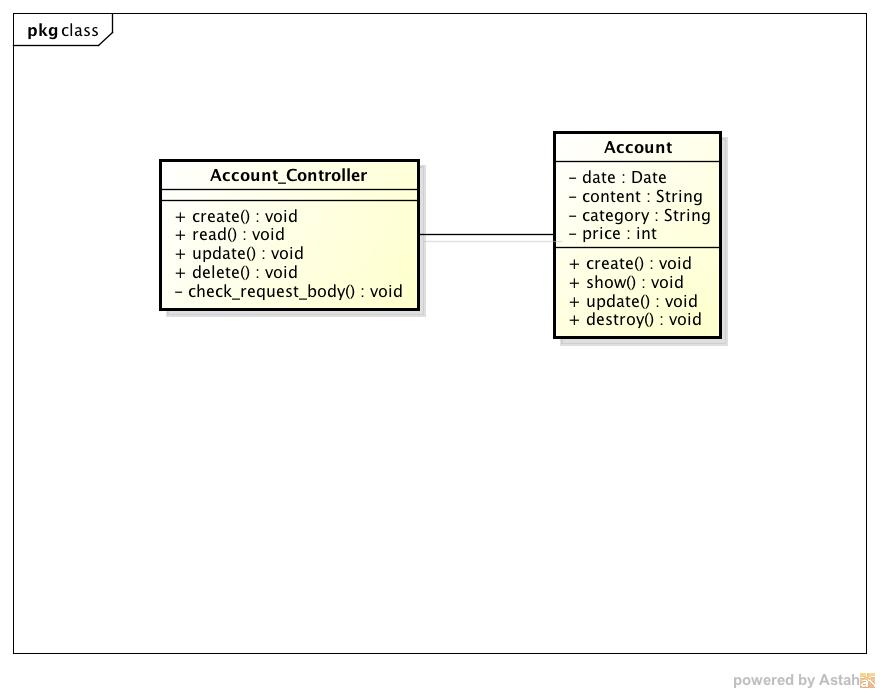
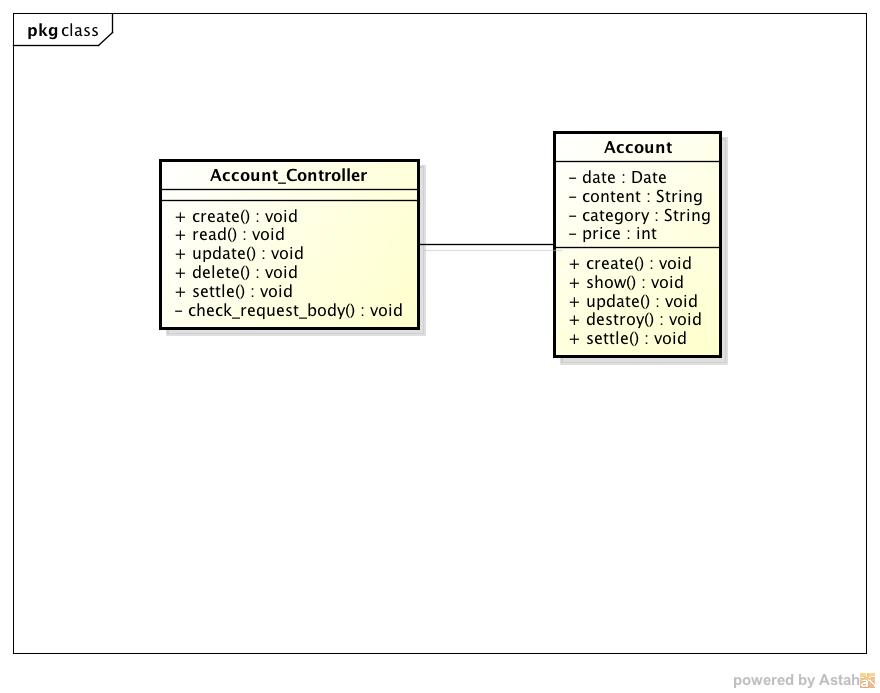
add settlement to manager

Changed region(s): [[0.1841, 0.3939, 0.4909, 0.4848], [0.6136, 0.4848, 0.8284, 0.5455], [0.4602, 0.3333, 0.6443, 0.3636]]

diff --git a/adhafera/sphinx/manager/external.rst b/adhafera/sphinx/manager/external.rst
@@ -14,7 +14,7 @@
 
 .. image:: images/seq_create_ext.jpg
 
-1. ユーザがViewer, Registerで家計簿を登録すると，Managerにリクエストが送信される
+1. 利用者がViewer, Registerで家計簿を登録すると，Managerにリクエストが送信される
 2. リクエストを受信すると，Managerは入力のチェックを行う
 3. チェックした結果に基づいて，以下の処理を実行する
 
@@ -33,7 +33,7 @@
 
 .. image:: images/seq_read_ext.jpg
 
-1. ユーザがViewerで家計簿を検索すると，Managerにリクエストが送信される
+1. 利用者がViewerで家計簿を検索すると，Managerにリクエストが送信される
 2. リクエストを受信すると，Managerは入力のチェックを行う
 3. チェックした結果に基づいて，以下の処理を実行する
 
@@ -52,7 +52,7 @@
 
 .. image:: images/seq_update_ext.jpg
 
-1. ユーザがViewerで家計簿を更新すると，Managerにリクエストが送信される
+1. 利用者がViewerで家計簿を更新すると，Managerにリクエストが送信される
 2. リクエストを受信すると，Managerは入力のチェックを行う
 3. チェックした結果に基づいて，以下の処理を実行する
 
@@ -71,7 +71,7 @@
 
 .. image:: images/seq_delete_ext.jpg
 
-1. ユーザがViewerで家計簿を削除すると，Managerにリクエストが送信される
+1. 利用者がViewerで家計簿を削除すると，Managerにリクエストが送信される
 2. リクエストを受信すると，Managerは入力のチェックを行う
 3. チェックした結果に基づいて，以下の処理を実行する
 
@@ -80,6 +80,25 @@
      3-1. データベースの指定された条件を満たすレコードを削除する
 
      3-2. 削除通知をViewerに送信する
+
+   - 不正な入力である場合
+
+     3-1. エラー通知をViewerに送信する
+
+収支を見る
+^^^^^^^^^^
+
+.. image:: images/seq_settle_ext.jpg
+
+1. 利用者がViewerで収支確認メニューを選択すると，Managerにリクエストが送信される
+2. リクエストを受信すると，Managerは入力のチェックを行う
+3. チェックした結果に基づいて，以下の処理を実行する
+
+   - 正しい入力である場合
+
+     3-1. 収支を計算する
+
+     3-2. 計算結果をViewerに送信する
 
    - 不正な入力である場合
 

diff --git a/adhafera/sphinx/manager/internal.rst b/adhafera/sphinx/manager/internal.rst
@@ -21,7 +21,7 @@
 
    - falseの場合
 
-     3-1. Viewer, Registerにステータスコード400を送信する
+     3-1. Viewer, Registerにエラーコードとステータスコード400を送信する
 
 家計簿を検索する
 ^^^^^^^^^^^^^^^^
@@ -40,7 +40,7 @@
 
    - falseの場合
 
-     3-1. Viewerにステータスコード400を送信する
+     3-1. Viewerにエラーコードとステータスコード400を送信する
 
 家計簿を更新する
 ^^^^^^^^^^^^^^^^
@@ -59,7 +59,7 @@
 
    - falseの場合
 
-     3-1. Viewerにステータスコード400を送信する
+     3-1. Viewerにエラーコードとステータスコード400を送信する
 
 家計簿を削除する
 ^^^^^^^^^^^^^^^^
@@ -78,7 +78,26 @@
 
    - falseの場合
 
-     3-1. Viewerにステータスコード400を送信する
+     3-1. Viewerにエラーコードとステータスコード400を送信する
+
+収支を見る
+^^^^^^^^^^
+
+.. image:: images/seq_settle_int.jpg
+
+1. Viewerからのリクエストを受信すると，Account_Controllerクラスのsettleメソッドが実行される
+2. check_request_bodyメソッドで入力のチェックを行う
+3. check_request_bodyの返り値に基づいて，以下の処理を実行する
+
+   - trueの場合
+
+     3-1. Accountクラスのsettleメソッドを実行して収支を計算する
+
+     3-2. Viewerに計算結果とステータスコード200を送信する
+
+   - falseの場合
+
+     3-1. Viewerにエラーコードとステータスコード400を送信する
 
 クラス
 ------
@@ -91,6 +110,7 @@
   - read: 家計簿を検索するメソッド
   - update: 家計簿を更新するメソッド
   - delete: 家計簿を削除するメソッド
+  - settle: 収支を計算するメソッド
   - check_request_body: リクエストのボディやクエリをチェックするメソッド
 
 - Account: expenseテーブル，incomeテーブルを操作するモデル
@@ -99,3 +119,4 @@
   - show: レコードを取得するメソッド
   - update: レコードを更新するメソッド
   - destroy: レコードを削除するメソッド
+  - settle: 収支を計算するメソッド
